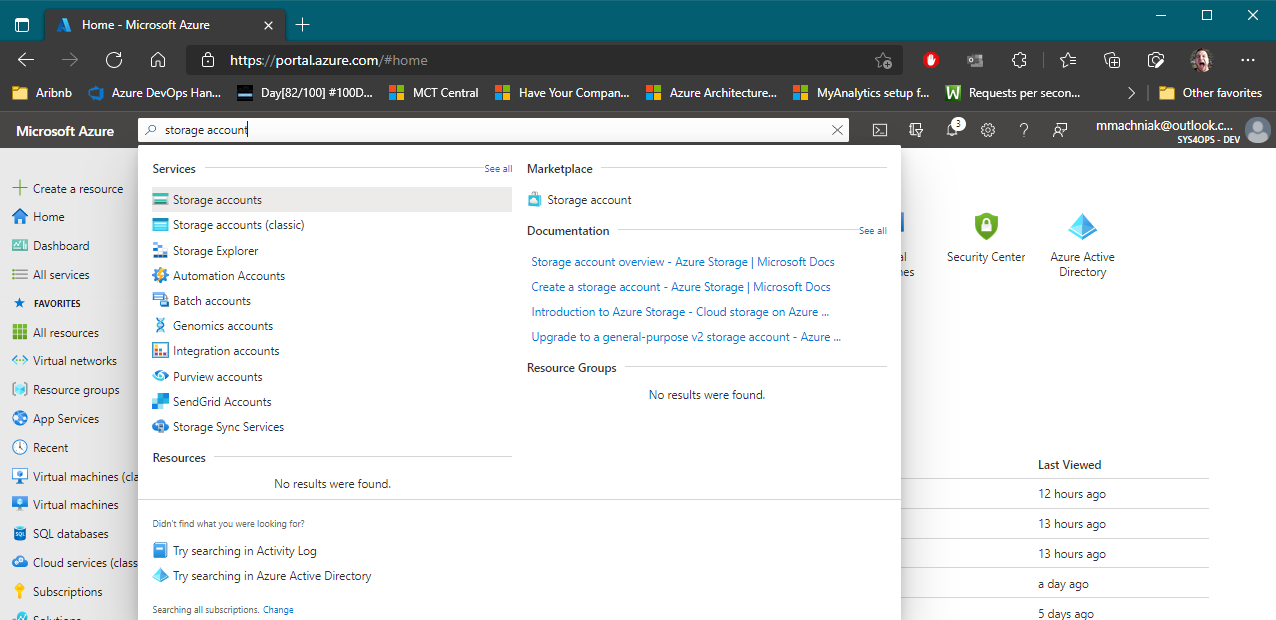
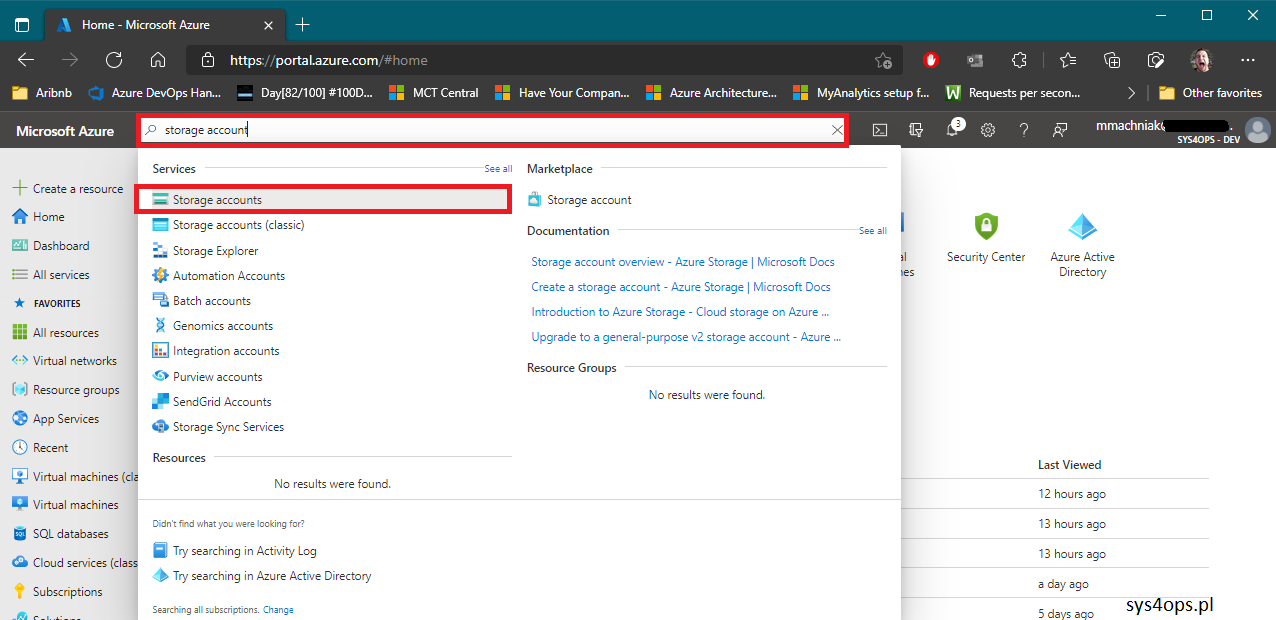
Intune (Endpoint Manager) - How to deploy Office templates and keep them up to date

diff --git a/_posts/2021-08-24-Intune-Office-documents-template.md b/_posts/2021-08-24-Intune-Office-documents-template.md
@@ -55,7 +55,13 @@ To storge office templete and script responsible for deploying templates in loca
 
 1. Logon to https://portal.azure.com 
 2. On top search bar type **storage account**
+
+![](/assets/images/azure-st-1.PNG)
+
 3. On navigation bar click **Create**
+
+
+
 4. Enter data in **Basic** tab
 5. On **Advanced** tab click **Next**
 6. On **Networking** tab click **Next**
